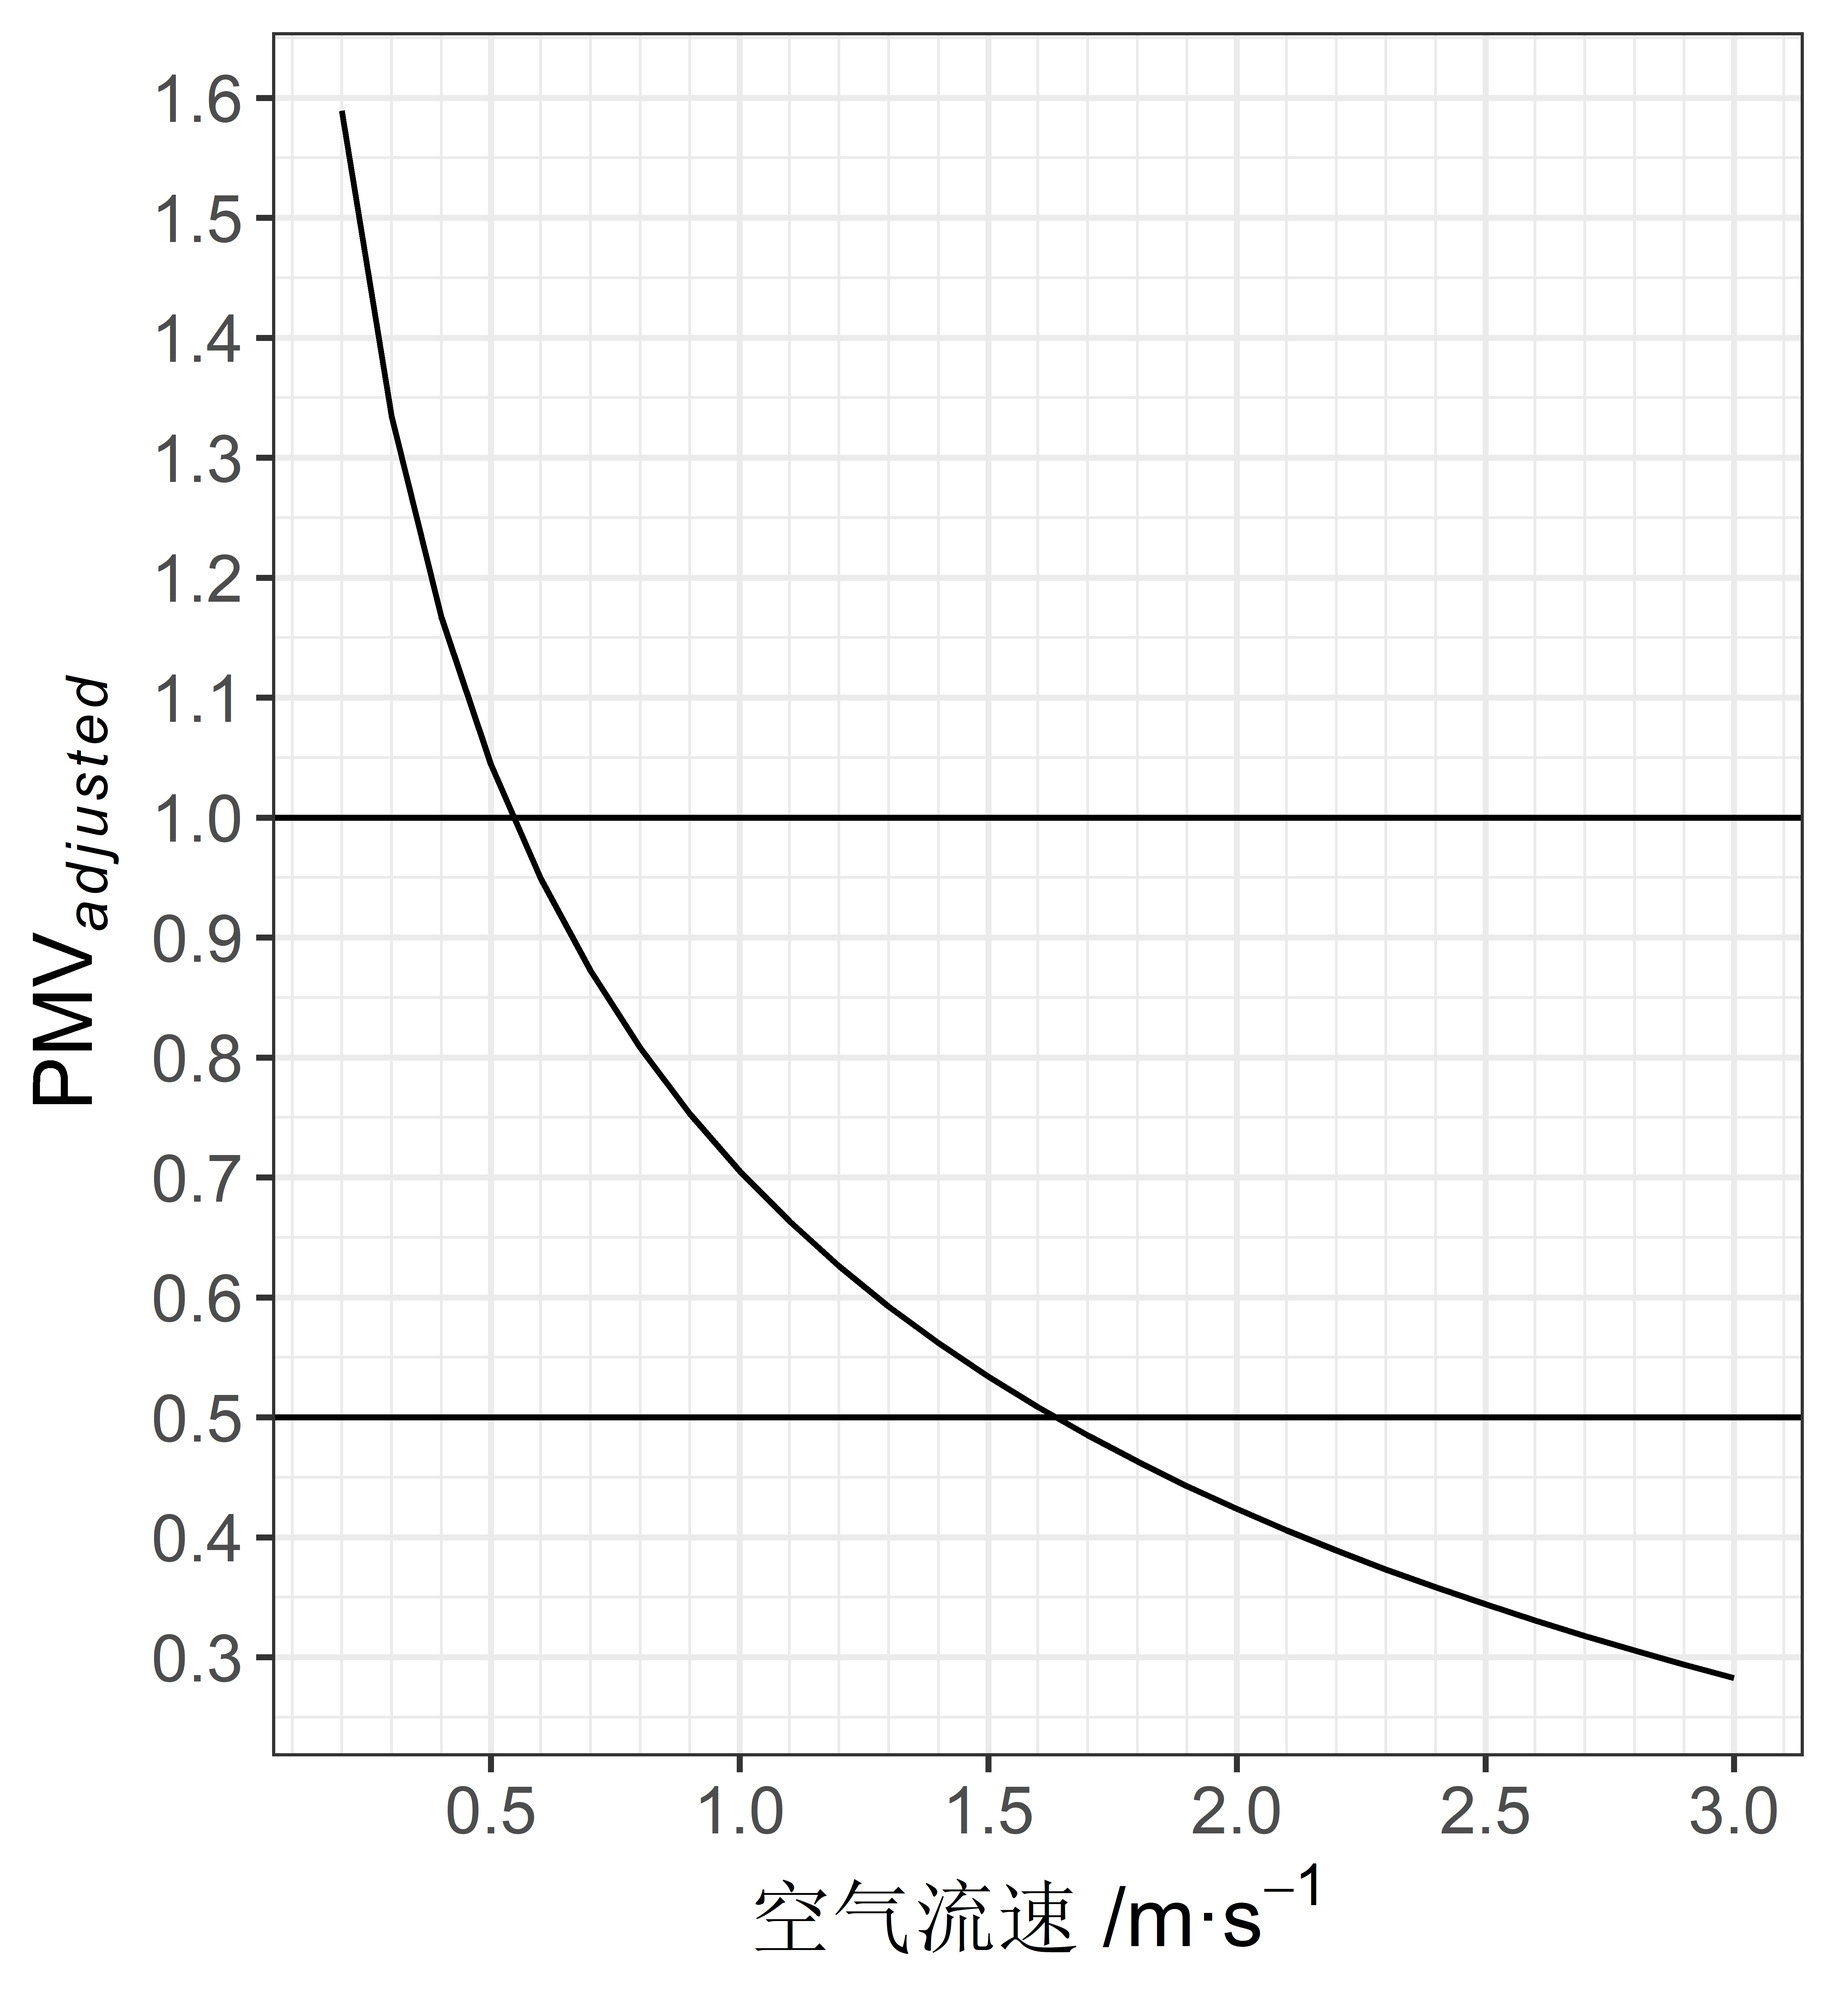
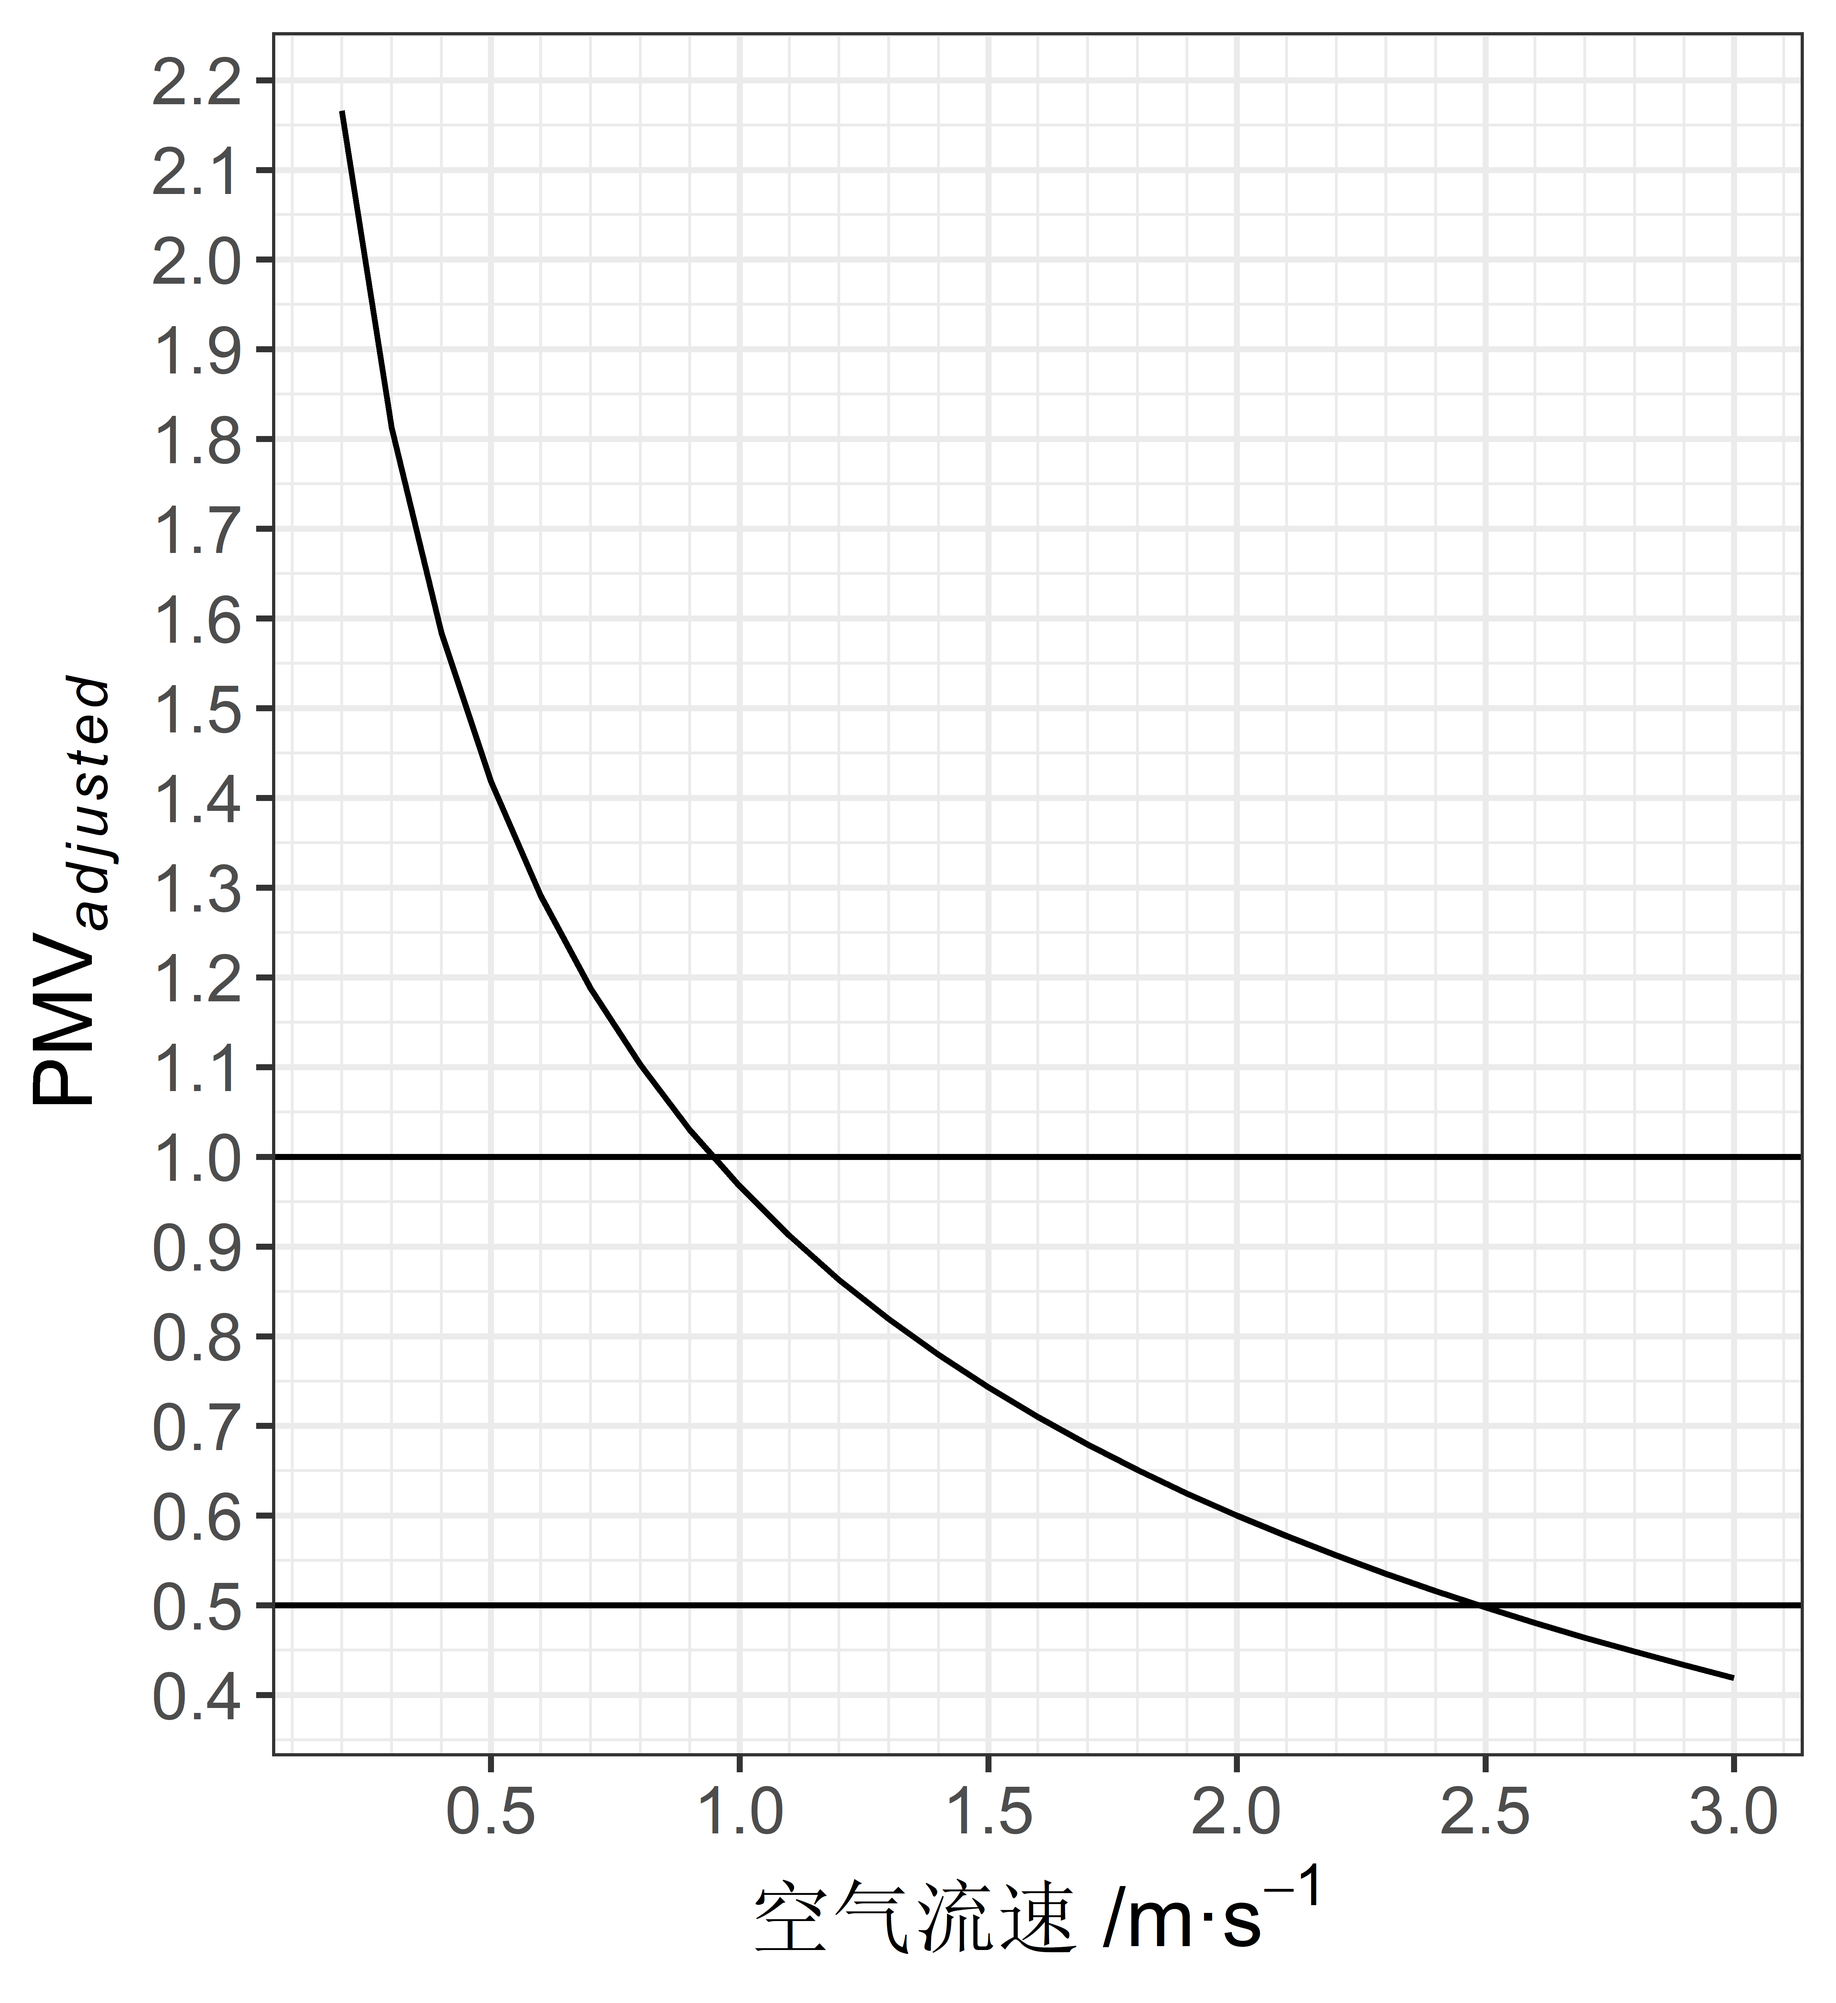
Add files via upload

diff --git a/Sanya/modules/comforttools/two_node_model.py b/Sanya/modules/comforttools/two_node_model.py
@@ -184,14 +184,14 @@ def cal_set(ta=None, tr=None, v=None, rh=None, met=None, clo=None, top=None, b=1
     return set0
 
 
-def cal_ce(ta=None, tr=None, v=None, rh=None, met=None, clo=None, top=None, b=101.325, work=0):
+def cal_ce(ta=None, tr=None, v=None, rh=None, met=None, clo=None, top=None, b=101.325, work=0, v0 = 0.1, rh0 = 50):
     set_0 = cal_set(ta=ta, tr=tr, v=v, rh=rh, met=met, clo=clo, top=top, b=b, work=work)
     dt = 1e-4
     dx = 100
     ce = 0
     while abs(dx) > 1e-2:
-        err1 = set_0 - cal_set(ta=ta - ce, tr=tr - ce, v=0.1, rh=rh, met=met, clo=clo, top=top, b=b, work=work)
-        err2 = set_0 - cal_set(ta=ta - (ce + dt), tr=tr - (ce + dt), v=0.1, rh=rh, met=met, clo=clo, top=top, b=b,
+        err1 = set_0 - cal_set(ta=ta - ce, tr=tr - ce, v=v0, rh=rh0, met=met, clo=clo, top=top, b=b, work=work)
+        err2 = set_0 - cal_set(ta=ta - (ce + dt), tr=tr - (ce + dt), v=v0, rh=rh0, met=met, clo=clo, top=top, b=b,
                                work=work)
         dx = err1 / (err2 - err1) * dt
         ce = ce - dx

diff --git a/Sanya/scripts/calpmv.py b/Sanya/scripts/calpmv.py
@@ -15,4 +15,4 @@ for i in df.index:
   v = df.at[i, "v"]
   df.at[i, "SET"] = cal_set(ta=ta, tr=ta, v=v, rh=rh, met=met, clo=clo)
   ce = cal_ce(ta=ta, tr=ta, v=v, rh=rh, met=met, clo=clo)
-  df.at[i, "PMV"] = cal_pmv(ta=ta - ce, tr=ta - ce, rh=rh, v=0.1, clo=clo, met=met)
+  df.at[i, "PMV"] = cal_pmv(ta=ta - ce, tr=ta - ce, rh=50, v=0.1, clo=clo, met=met)
